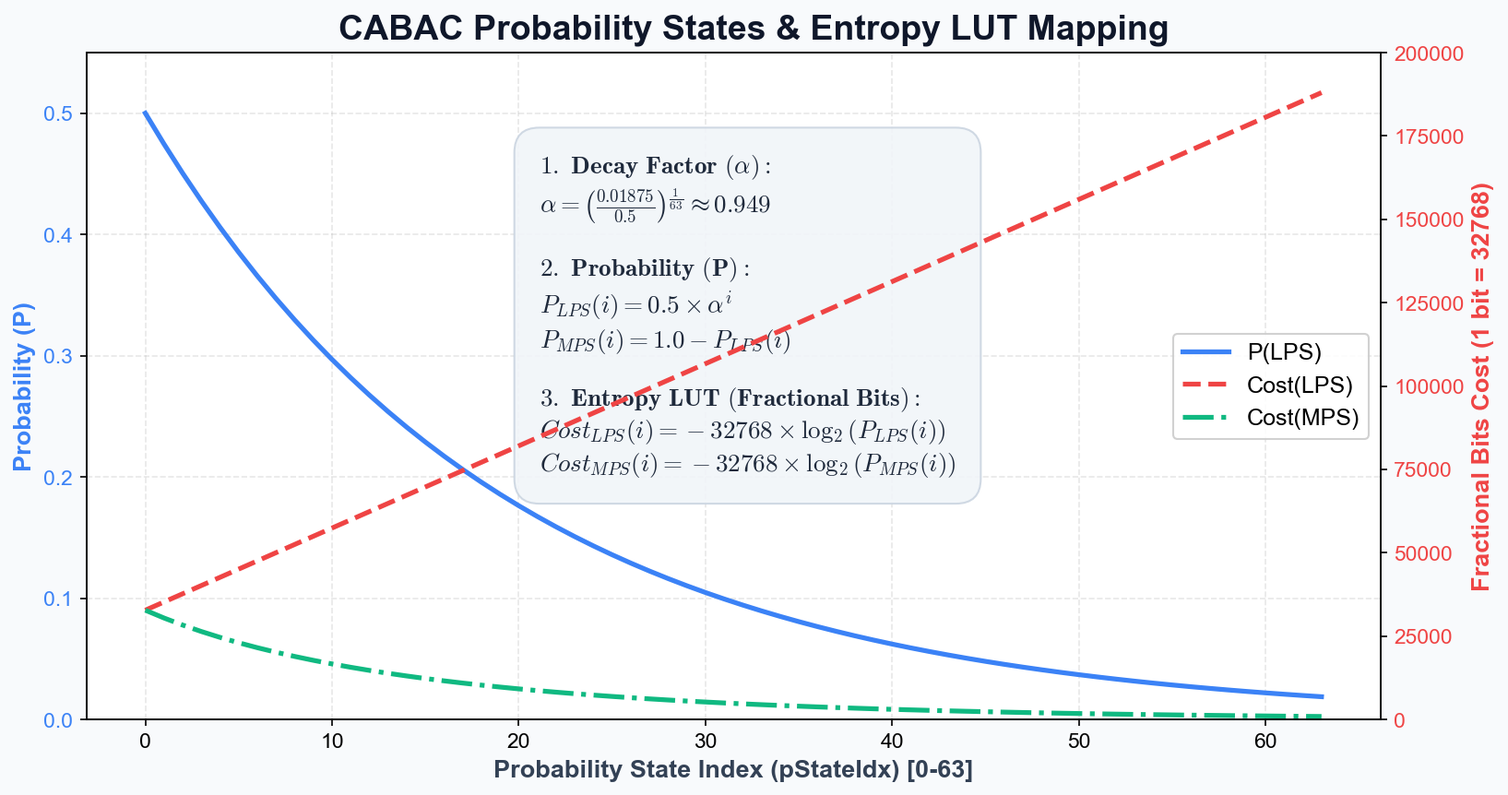
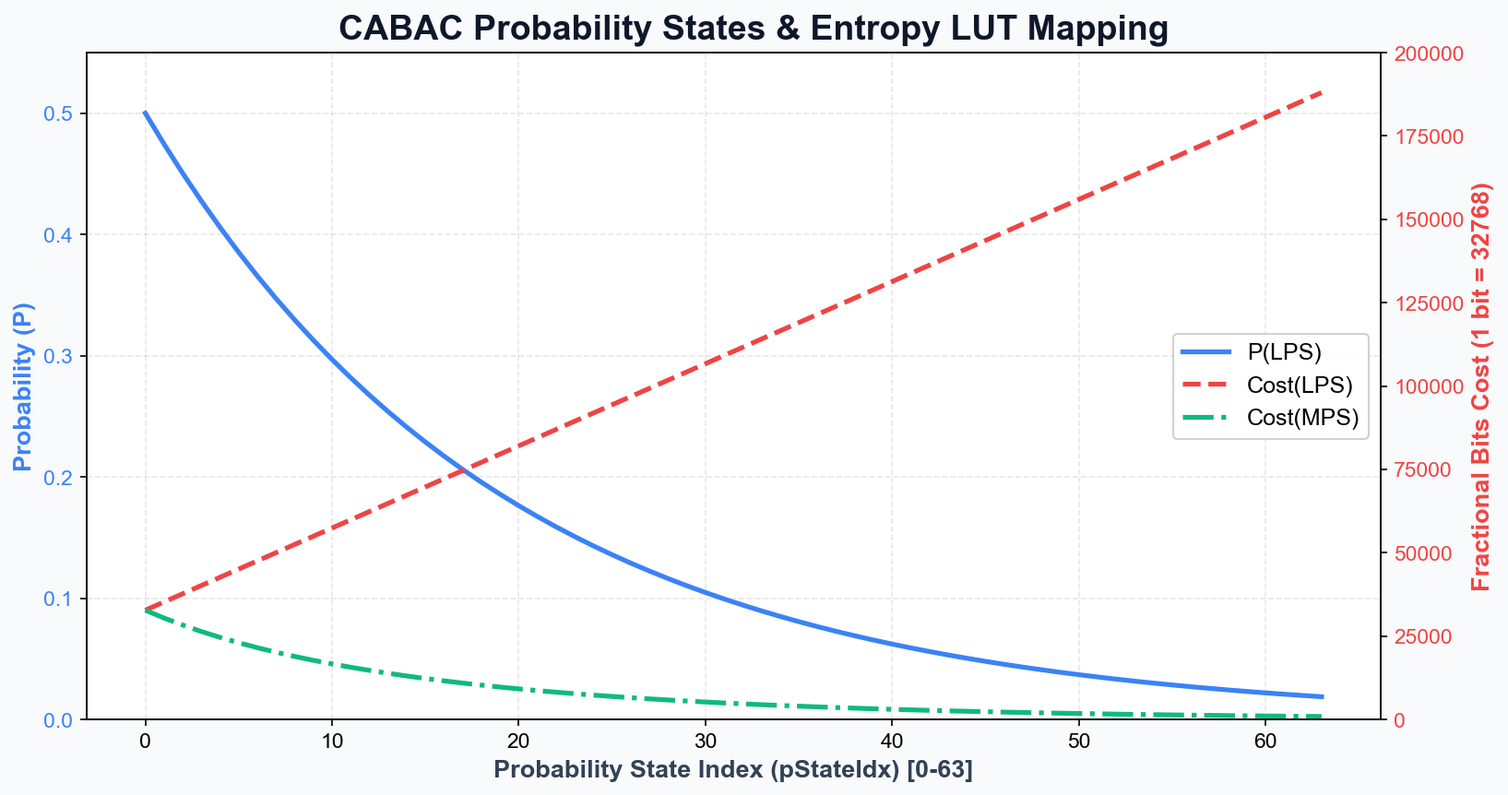
docs: restructure RDOQ dashboard Chapter 1 into 1.1/1.2/1.3 layout
Move decision example and Cost formula into 1.1, add Dcost diagram,
keep Entropy LUT formulas below chart, and update README to match.

diff --git a/html/rdoq_hardware_dashboard.html b/html/rdoq_hardware_dashboard.html
@@ -220,13 +220,13 @@ hljs.highlightAll();
       <div style="background: linear-gradient(135deg, #eff6ff, #f0fdf4); padding: 20px; border-radius: 10px; border: 1px solid #bfdbfe; margin-bottom: 25px; box-shadow: 0 2px 8px rgba(59,130,246,0.08);">
         <p style="margin: 0; color: #1e3a8a; font-size: 1.05em; line-height: 1.8;">
           <strong style="font-size: 1.15em;">总览：</strong>RDOQ (Rate-Distortion Optimized Quantization) 的本质是在标准量化 (SQ) 完成后，对每一个变换系数进行局部的 <strong>RD 代价比较</strong>：它只尝试将系数“减弱一档”或“强制清零”，然后计算 <code>Cost = Distortion + λ × Rate</code>，择优保留代价最低的量化值。<br>
-          整个算法由三个层级构成：<strong>① 系数级</strong>（逐点串行扫描、计算 CABAC 码率代价、选最优 Level）→ <strong>② CG 级</strong>（4×4 块整体抹零判决）→ <strong>③ TU 级</strong>（终极 CBF 清零判决）。本章将自顶向下地剖析这套算法从“扫描路径”到“代价计算”的完整数学逻辑。
+          整个算法由三个层级构成：<strong>① 系数级</strong>（逐点串行扫描、计算 CABAC 码率代价、选最优 Level）→ <strong>② CG 级</strong>（4×4 块整体抹零判决）→ <strong>③ TU 级</strong>（终极 CBF 清零判决）。为便于理解，本章按三大块展开：<strong>1.1 整体过程与原理</strong>（RDOQ 在做什么、扫描怎么跑、候选怎么来）、<strong>1.2 Dcost（失真代价）怎么算</strong>、<strong>1.3 Bincost（码率代价）怎么算</strong>；最后用一个综合示例把 <code>Cost = Dcost + λ × Bincost</code> 串起来。
         </p>
       </div>
       <p>在深入硬件优化前，必须厘清 RDOQ 在 C-Model 中的算法本质。RDOQ 并非盲目尝试，而是一场从宏观扫描到微观计算，再到层级截断的精密计算过程。</p>
       
+      <h3>1.1 整体过程与原理：RDOQ 在做什么、怎么跑</h3>
       <div class="algorithm-steps">
-        <h3>1.1 战场全貌与宏观扫描：能量分布与嵌套执行流程</h3>
         <p style="color: #475569; margin-bottom: 15px;">当一个 Transform Unit (TU) 经过 DCT 变换后，其能量分布具有极强的规律性：</p>
         
         <div style="text-align: center; margin: 20px 0; padding: 15px; background: #ffffff; border: 1px solid #e2e8f0; border-radius: 8px; box-shadow: 0 2px 5px rgba(0,0,0,0.02);">
@@ -420,17 +420,10 @@ hljs.highlightAll();
           <strong>嵌套执行总结：</strong><br>
           其实并不矛盾。<strong>“4x4”是管理的粒度（决定何时触发块级评估），而“单点”是执行的粒度（保证 CABAC 依赖的正确性）。</strong> 只有跑完完整的 <strong>系数级 &rarr; CG级 &rarr; TU级</strong> 三层循环后，RDOQ 流程才算真正“计算完毕”。
         </div>
-
-        <div class="mermaid-wrapper" style="margin: 25px 0; background: #fff; padding: 20px; border: 1px solid #e2e8f0; border-radius: 8px; box-shadow: 0 4px 15px rgba(0,0,0,0.03);">
-          <h4 style="margin-top: 0; text-align: center; color: #3b82f6; border-bottom: 1px dashed #bfdbfe; padding-bottom: 10px;">📊 宏观控制流：三层嵌套循环执行架构 (Nested Execution Flow)</h4>
-          <div style="text-align: center; margin-top: 15px;">
-            <img src="./rdoq_nested_loops_py.png" alt="Nested Execution Flow Chart" style="max-width: 100%; height: auto; border-radius: 6px;">
-          </div>
-        </div>
       </div>
 
       <div class="algorithm-steps">
-        <h3>1.2 微观手术：候选 LEVEL 的精准产生</h3>
+        <h4 style="margin-top: 0; color: #3b82f6; border-bottom: 1px solid #bfdbfe; padding-bottom: 6px;">整体流程的最后一环：候选 Level 的精准产生</h4>
         <p style="color: #475569; margin-bottom: 15px;">对于选定的变换系数 <i>C<sub>trans</sub></i>，RDOQ 不会遍历所有数字，而是基于普通标量量化 (SQ) 的结果进行局部试探：</p>
         <ul style="color: #334155; line-height: 1.8;">
           <li>首先执行普通量化：<b>L<sub>SQ</sub> = round(C<sub>trans</sub> / Q<sub>step</sub>)</b>。</li>
@@ -449,9 +442,116 @@ hljs.highlightAll();
         </div>
       </div>
 
+      <!-- 整体判决示例（属于 1.1 节内） -->
+      <div style="background: #fff; border: 1px solid #e2e8f0; border-radius: 12px; margin: 25px 0; overflow: hidden; box-shadow: 0 10px 25px rgba(0,0,0,0.05);">
+        <div style="background: var(--secondary); color: white; padding: 15px 20px; display: flex; justify-content: space-between; align-items: center;">
+          <div style="margin: 0; color: white; border: none; font-size: 16px; font-weight: bold;">整体判决示例：Cost = Dcost + λ×Bincost</div>
+          <span style="font-size: 14px; opacity: 0.8;">RDOQ Overview Decision Flow</span>
+        </div>
+        <div style="padding: 25px; display: flex; flex-direction: column; gap: 20px;">
+          <p style="margin-top: 0; color: #475569; line-height: 1.8;">在展开 <strong>1.2 Dcost</strong> 与 <strong>1.3 Bincost</strong> 的计算细节之前，先用一个典型场景建立整体直觉：边缘 DCT 系数 <code>C_trans = 15</code>，SQ 量化为 <code>Level = 1</code>（反量化后 <code>unQuant = 26</code>）。RDOQ 在候选 <code>{1, 0}</code> 之间分别计算 Dcost 与 Bincost，比较总代价 <code>Cost = Dcost + λ×Bincost</code> 后择优保留。</p>
+
+          <div style="background: #f8fafc; border-radius: 8px; border: 1px solid #e2e8f0; padding: 15px; display: flex; justify-content: center;">
+            <img src="./rdoq_decision_tree.png" alt="RDOQ Decision Tree Graph" style="max-width: 100%; height: auto; border-radius: 6px;">
+          </div>
+          <p class="diagram-caption" style="margin: 0;">图：RDOQ 核心决策树（C_trans = 15）—— 每个候选的 D/R 拆解与最终判决</p>
+
+          <div style="display: grid; grid-template-columns: repeat(auto-fit, minmax(280px, 1fr)); gap: 20px;">
+            <div style="background: #fff; padding: 20px; border-radius: 8px; border-top: 4px solid #3b82f6; box-shadow: 0 2px 10px rgba(0,0,0,0.02);">
+              <h4 style="margin-top: 0; color: #1e40af;">候选 A：保留 Level = 1</h4>
+              <ul style="color: #334155; line-height: 1.8; padding-left: 20px; margin-bottom: 0;">
+                <li><strong>Dcost：</strong>d = |15 − 26| = 11 → D = 11² × 1024 = <strong>123,904</strong></li>
+                <li><strong>Bincost：</strong>需编 <code>sig=1</code>, <code>gr1=0</code>, <code>sign=1</code>，约 2.5 bits → λ×R ≈ <strong>150,000</strong></li>
+                <li style="border-top: 1px dashed #cbd5e1; padding-top: 8px; margin-top: 8px;"><strong>Cost(L=1) =</strong> <strong>273,904</strong></li>
+              </ul>
+            </div>
+            <div style="background: #fff; padding: 20px; border-radius: 8px; border-top: 4px solid #f59e0b; box-shadow: 0 2px 10px rgba(0,0,0,0.02);">
+              <h4 style="margin-top: 0; color: #b45309;">候选 B：截断 Level = 0</h4>
+              <ul style="color: #334155; line-height: 1.8; padding-left: 20px; margin-bottom: 0;">
+                <li><strong>Dcost：</strong>d = |15 − 0| = 15 → D = 15² × 1024 = <strong>230,400</strong>（误差↑）</li>
+                <li><strong>Bincost：</strong>只需编 <code>sig=0</code>，约 0.2 bits → λ×R ≈ <strong>12,000</strong>（码率↓）</li>
+                <li style="border-top: 1px dashed #cbd5e1; padding-top: 8px; margin-top: 8px;"><strong>Cost(L=0) =</strong> <strong>242,400</strong></li>
+              </ul>
+            </div>
+            <div style="background: #ecfdf5; padding: 20px; border-radius: 8px; border-top: 4px solid #10b981; box-shadow: 0 2px 10px rgba(0,0,0,0.02);">
+              <h4 style="margin-top: 0; color: #047857;">贪婪判决</h4>
+              <div style="text-align: center; font-size: 1.05em; padding: 8px 0; margin-bottom: 8px;">
+                Cost(0) <strong>242,400</strong> &lt; Cost(1) <strong>273,904</strong>
+              </div>
+              <p style="color: #065f46; margin-bottom: 0; font-size: 0.95em; line-height: 1.7;"><strong>结论：</strong>D 变大但 R 骤降，总代价更低 → 选择 <strong style="color: #059669;">Level = 0</strong>。这正是 RDOQ 提升压缩率的核心机制。下面 1.2 / 1.3 分别拆解 Dcost 与 Bincost 如何算出。</p>
+            </div>
+          </div>
+        </div>
+      </div>
+
+      <div style="background: linear-gradient(135deg, #f0fdf4, #eff6ff); border: 1px solid #bbf7d0; border-radius: 10px; padding: 18px 22px; margin: 20px 0 5px 0; box-shadow: 0 2px 8px rgba(16,185,129,0.06);">
+        <p style="margin: 0; color: #14532d; font-size: 1.02em; line-height: 1.8;">
+          <strong style="font-size: 1.1em;">承上启下：</strong>上面示例已经展示了 RDOQ 的<strong>整体过程</strong>——逆向逐点扫描 → 产生候选 Level → 比较总代价择优。总代价由两项构成：
+        </p>
+        <div style="text-align: center; background: #ffffff; border: 1px dashed #86efac; border-radius: 8px; padding: 12px; margin: 12px 0 6px 0; font-size: 1.15em; color: #0f172a; overflow-x: auto;">
+          $$ \text{Cost}(L) = \underbrace{D_{cost}(L)}_{\text{失真 (1.2 节)}} \;+\; \lambda \times \underbrace{Bin_{cost}(L)}_{\text{码率 (1.3 节)}} $$
+        </div>
+        <p style="margin: 8px 0 10px 0; color: #14532d; font-size: 0.95em; line-height: 1.7;">
+          C-Model / 硬件中，上式以<strong>定点整数</strong>实现（与 1.1 决策树里的 273,904 / 242,400 同一套量纲）：
+        </p>
+        <div style="text-align: center; margin: 0 0 10px 0; padding: 15px; background: #ffffff; border: 1px solid #bbf7d0; border-radius: 8px; box-shadow: 0 2px 5px rgba(16,185,129,0.06);">
+          <img src="./rdoq_formula.png" alt="RDOQ Cost Formula" style="max-width: 100%; height: auto;">
+        </div>
+        <p style="margin: 6px 0 0 0; color: #14532d; font-size: 0.95em; line-height: 1.7;">
+          其中 <code>d² · 2<sup>scaleBits</sup></code> 即 Dcost 项，<code>⌊λ·bits / 2<sup>shift</sup>⌋</code> 即 λ×Bincost 项。下面两节分别把这两项拆开讲透：<strong>1.2</strong> 讲失真 <code>Dcost</code> 怎么算（简单、可并行），<strong>1.3</strong> 讲码率 <code>Bincost</code> 怎么算（复杂、强串行）。
+        </p>
+      </div>
+
+      <h3>1.2 Dcost（失真代价）的计算</h3>
       <div class="algorithm-steps">
-        <h3>1.3 码率度量：从 CABAC 语法元素到 BinCost</h3>
-        <p style="color: #475569; margin-bottom: 15px;">在评估某个候选 Level 时，<code>Cost = Distortion + Rate</code>。其中畸变 (D) 很容易通过差值的平方求得，但码率 (R) 则需要极其精确的估算。</p>
+        <p style="color: #475569; margin-bottom: 15px;">失真 <code>Dcost</code> 衡量的是“把系数量化成某个 Level 后，重建画面会偏离原始多少”。它的计算比码率简单得多，但有三个常被忽略的关键点。</p>
+
+        <div style="text-align: center; margin: 0 0 20px 0; padding: 15px; background: #ffffff; border: 1px solid #e2e8f0; border-radius: 8px; box-shadow: 0 2px 5px rgba(0,0,0,0.02);">
+          <img src="./rdoq_dcost.png" alt="Dcost Calculation Diagram" style="max-width: 100%; height: auto; border-radius: 6px;">
+          <p class="diagram-caption" style="margin-bottom: 0;">图：左 — 两个候选的误差 d 与 Dcost 数值；右 — Parseval 定理保证变换域 SSE 与像素域 SSE 等价</p>
+        </div>
+
+        <h4 style="margin-top: 0; color: #3b82f6; border-bottom: 1px solid #bfdbfe; padding-bottom: 6px;">关键点 ①：误差要对“反量化重建值”算，而不是对 Level 算</h4>
+        <p style="color: #334155; line-height: 1.8;">
+          解码端拿到的是量化 Level，它会先<strong>反量化 (Dequant)</strong> 还原出一个重建系数 <code>unQuant = Level × Q<sub>step</sub></code>，再做反变换。所以真正的失真，是<strong>原始变换系数</strong>与<strong>反量化重建系数</strong>之间的差，而不是拿原值和 Level 直接比：
+        </p>
+        <div style="background: #f8fafc; padding: 14px 18px; border-radius: 6px; border: 1px solid #e2e8f0; color: #0f172a; margin-bottom: 8px; overflow-x: auto;">
+          $$ D_{cost}(L) = \big(\,C_{trans} - \underbrace{L \times Q_{step}}_{\text{反量化重建值}}\,\big)^2 \times \text{scale} $$
+        </div>
+        <p style="color: #64748b; font-size: 0.9em; margin: 0 0 15px 0;">抹零的代价就是 <code>L=0</code> 的特例：<code>D(0) = C<sub>trans</sub>² × scale</code>（整段系数能量全部变成误差）。</p>
+
+        <h4 style="margin-top: 25px; color: #3b82f6; border-bottom: 1px solid #bfdbfe; padding-bottom: 6px;">关键点 ②：在“变换域”直接算，省掉每个候选的反变换</h4>
+        <p style="color: #334155; line-height: 1.8;">
+          直觉上，求重建误差应该回到像素域：反量化 → 反变换 (IDCT) → 和原像素相减。但若对每个系数的每个候选都做一次 IDCT，开销根本无法接受。<br>
+          <strong>救命的数学：帕塞瓦尔定理 (Parseval)。</strong>由于 DCT/DST 是<strong>正交变换</strong>，它保能量——<strong>变换域里的平方误差之和，恒等于像素域里的平方误差之和</strong>（只差一个固定的归一化常数）。因此 RDOQ 完全可以<strong>留在系数域</strong>逐点累加平方误差，无需反变换回像素域，结果却完全等价。
+        </p>
+        <div class="critical-alert" style="margin-top: 12px;">
+          <strong>这正是 Dcost 能“逐系数独立、即算即比”的根基：</strong>失真项没有 CABAC 那种跨系数的上下文依赖，每个系数的 D 只跟它自己的幅值与候选 Level 有关，天然可并行。<span class="highlight">真正难、真正串行的瓶颈，全在下一节的 Bincost。</span>
+        </div>
+
+        <h4 style="margin-top: 25px; color: #3b82f6; border-bottom: 1px solid #bfdbfe; padding-bottom: 6px;">关键点 ③：硬件实现式（定点放大域，避除法/浮点）</h4>
+        <p style="color: #334155; line-height: 1.8;">
+          为了规避除法和浮点，HM/硬件并不真去算 <code>Level × Q<sub>step</sub></code>，而是在量化的“放大定标域”里做：设系数放大后的精确值为 <code>levelDouble = |C<sub>trans</sub>| × Q</code>，量化成 <code>L</code> 后在同一域的重建值是 <code>L &lt;&lt; qbits</code>，于是：
+        </p>
+        <div style="background: #f8fafc; padding: 14px 18px; border-radius: 6px; border: 1px solid #e2e8f0; color: #0f172a; margin-bottom: 8px; overflow-x: auto;">
+          $$ D_{cost}(L) = \big(\text{levelDouble} - (L \ll \text{qbits})\big)^2 \times \text{errScale} $$
+        </div>
+        <p style="color: #64748b; font-size: 0.9em; margin: 0 0 5px 0;">其中 <code>errScale</code> 是初始化时按量化步长与变换归一化预算好的定点缩放因子，作用是把“定标域的平方误差”换算成真实失真量纲，从而能直接和 <code>λ × Bincost</code> 相加比较。它与上面的概念式完全等价，只是把缩放搬进了乘法、避开了反量化除法。</p>
+
+        <div class="success" style="margin-top: 18px;">
+          <strong>举个例子 (Example)：C<sub>trans</sub> = 15 的两个候选失真</strong><br>
+          沿用<strong>上文整体判决示例</strong>：边缘系数 <code>C<sub>trans</sub> = 15</code>，SQ 量化为 <code>Level = 1</code>，其反量化重建值 <code>unQuant = 26</code>，失真定标 <code>scale = 1024</code>。
+          <ul style="margin-top: 8px; margin-bottom: 8px;">
+            <li><strong>保留 Level = 1：</strong>误差 d = |15 − 26| = 11 → <code>D(1) = 11² × 1024 = 123,904</code>。</li>
+            <li><strong>强制 Level = 0：</strong>误差 d = |15 − 0| = 15 → <code>D(0) = 15² × 1024 = 230,400</code>。</li>
+          </ul>
+          <strong>注意失真的单调性：</strong>越是保留大 Level，重建越准、D 越小（<code>D(1) &lt; D(0)</code>）。所以<strong>单看失真，永远偏向“保留”</strong>；是 1.3 节的码率项 <code>λ × Bincost</code> 把天平往“减弱/抹零”方向拉——两者如何在整体判决示例中拔河，1.1 节上文已完整展示。
+        </div>
+      </div>
+
+      <h3>1.3 Bincost（码率代价）的计算：从 CABAC 语法元素到分数比特</h3>
+      <div class="algorithm-steps">
+        <p style="color: #475569; margin-bottom: 15px;">在评估某个候选 Level 时，<code>Cost = Dcost + λ × Bincost</code>。上一节已讲清 Dcost（失真）如何由系数域平方误差求得；本节专注更棘手的 <strong>Bincost（码率代价）</strong>——精确估算 CABAC 编码这个 Level 到底要花多少比特。</p>
         
         <div style="text-align: center; margin: 20px 0; padding: 15px; background: #ffffff; border: 1px solid #e2e8f0; border-radius: 8px; box-shadow: 0 2px 5px rgba(0,0,0,0.02);">
           <img src="./rdoq_cabac_pipeline.png" alt="CABAC Fractional Bits Estimation Pipeline" style="max-width: 100%; height: auto;">
@@ -672,6 +772,70 @@ static const UChar INIT_SIG_FLAG[3][NUM_SIG_FLAG_CTX] =
             
             <div style="text-align: center; margin: 15px 0; padding: 10px; background: #ffffff; border: 1px solid #e2e8f0; border-radius: 8px; box-shadow: 0 2px 5px rgba(0,0,0,0.02);">
               <img src="./rdoq_entropy_lut.png" alt="CABAC Entropy LUT Mathematical Curves" style="max-width: 100%; height: auto; border-radius: 6px;">
+              <p class="diagram-caption" style="margin-bottom: 0;">图：P(LPS) 与 Cost(MPS/LPS) 随 pStateIdx 的变化曲线（算式见下方建表三步）</p>
+            </div>
+
+            <div style="background: #eef2ff; border: 2px solid #6366f1; padding: 20px; border-radius: 8px; margin: 20px 0; box-shadow: 0 2px 8px rgba(99, 102, 241, 0.08);">
+              <h4 style="margin-top: 0; color: #4338ca; margin-bottom: 15px; font-size: 1.1em; border-bottom: 2px dashed #c7d2fe; padding-bottom: 8px;">
+                <span style="font-size: 1.2em;">&#127959;&#65039;</span> 这张 128 项的 Entropy_LUT 到底是怎么“算”出来的？（建表三步）
+              </h4>
+              <p style="color: #312e81; line-height: 1.7; margin-bottom: 8px;">
+                下图仅展示概率状态与代价曲线的<strong>形态关系</strong>（不含算式）。128 项 Entropy_LUT 的具体计算公式与建表步骤见下方文字。
+              </p>
+              <p style="color: #312e81; line-height: 1.7; margin-bottom: 15px;">
+                这张表并非写死的魔数，而是编码器初始化时，用<strong>香农信息量公式</strong>对 64 个概率状态逐一离线计算、再定点放大后固化进 ROM 的。建表只需三步：
+              </p>
+
+              <p style="margin: 15px 0 8px 0; font-weight: bold; color: #3730a3;">第 1 步：把概率状态 (pStateIdx) 映射成 LPS 概率</p>
+              <p style="color: #312e81; line-height: 1.7; margin: 0 0 10px 0;">
+                CABAC 把 LPS 出现概率离散成 64 档 (pStateIdx = 0~63)。状态越大越“笃定”(LPS 越罕见)，相邻档之间按固定比例 &alpha; 等比衰减：
+              </p>
+              <div style="background: #f8fafc; padding: 12px 16px; border-radius: 6px; border: 1px solid #e2e8f0; color: #0f172a; margin-bottom: 8px; overflow-x: auto;">
+                $$ p_{LPS}(s) = 0.5 \times \alpha^{s}, \quad \alpha = \left(\frac{0.01875}{0.5}\right)^{1/63} \approx 0.9492 $$
+              </div>
+              <p style="color: #64748b; font-size: 0.9em; margin: 0 0 15px 0;">于是 s=0 时 p<sub>LPS</sub>=0.5（最不确定，编谁都要 1 bit）；s=63 时 p<sub>LPS</sub>&approx;0.01875（最笃定，编 MPS 几乎不花钱）。</p>
+
+              <p style="margin: 15px 0 8px 0; font-weight: bold; color: #3730a3;">第 2 步：把概率换成比特数（香农信息量）并定点放大</p>
+              <p style="color: #312e81; line-height: 1.7; margin: 0 0 10px 0;">
+                对每一档状态，分别预算“编 MPS”和“编 LPS”两种事件的理论比特数，再 &times;32768（1 bit = 32768）取整，存为一对相邻表项：
+              </p>
+              <div style="background: #f8fafc; padding: 12px 16px; border-radius: 6px; border: 1px solid #e2e8f0; color: #0f172a; margin-bottom: 8px; line-height: 2.4; overflow-x: auto;">
+                $$ \text{LUT}[2s] = \text{round}\big(-\log_2(1 - p_{LPS}(s)) \times 32768\big) \quad \color{#64748b}{\text{(编 MPS 的代价，偶地址)}} $$
+                $$ \text{LUT}[2s+1] = \text{round}\big(-\log_2(p_{LPS}(s)) \times 32768\big) \quad \color{#64748b}{\text{(编 LPS 的代价，奇地址)}} $$
+              </div>
+              <p style="color: #64748b; font-size: 0.9em; margin: 0 0 15px 0;">64 档 &times; 2 = 128 项。注意地址最低位恰好就是“这次编的是不是 LPS”，与查表时的 <code>(flag_val ^ valMPS)</code> 完美对齐——这绝非巧合，而是为硬件寻址刻意设计的。</p>
+
+              <p style="margin: 15px 0 8px 0; font-weight: bold; color: #3730a3;">第 3 步：固化进 ROM，运行期只查不算</p>
+              <p style="color: #312e81; line-height: 1.7; margin: 0 0 15px 0;">
+                整张 128 项表在 Slice/编码器启动时只算一次，之后运行期就是一块纯组合逻辑的 ROM，单周期查出，彻底规避了昂贵的 <code>log2</code> 与浮点运算。
+              </p>
+
+              <p style="margin: 15px 0 8px 0; font-weight: bold; color: #3730a3;">建表结果速览（抽样几档）</p>
+              <table style="width: 100%; border-collapse: collapse; font-size: 0.9em; background: #ffffff; border-radius: 6px; overflow: hidden; border: 1px solid #e2e8f0;">
+                <thead>
+                  <tr style="background: #4338ca; color: white;">
+                    <th style="padding: 8px 10px; text-align: left;">pStateIdx s</th>
+                    <th style="padding: 8px 10px; text-align: left;">p<sub>LPS</sub>(s)</th>
+                    <th style="padding: 8px 10px; text-align: left;">编 MPS：LUT[2s]</th>
+                    <th style="padding: 8px 10px; text-align: left;">编 LPS：LUT[2s+1]</th>
+                  </tr>
+                </thead>
+                <tbody>
+                  <tr style="border-bottom: 1px solid #e5e7eb;">
+                    <td style="padding: 6px 10px;">0</td><td style="padding: 6px 10px;">0.500</td><td style="padding: 6px 10px;">1.000 b &rarr; 32768</td><td style="padding: 6px 10px;">1.000 b &rarr; 32768</td>
+                  </tr>
+                  <tr style="border-bottom: 1px solid #e5e7eb; background: #eef2ff;">
+                    <td style="padding: 6px 10px;"><strong>7</strong></td><td style="padding: 6px 10px;"><strong>0.347</strong></td><td style="padding: 6px 10px;"><strong>0.615 b &rarr; 20160</strong></td><td style="padding: 6px 10px;"><strong>1.526 b &rarr; 50010</strong></td>
+                  </tr>
+                  <tr style="border-bottom: 1px solid #e5e7eb;">
+                    <td style="padding: 6px 10px;">31</td><td style="padding: 6px 10px;">0.099</td><td style="padding: 6px 10px;">0.151 b &rarr; 4949</td><td style="padding: 6px 10px;">3.331 b &rarr; 109140</td>
+                  </tr>
+                  <tr>
+                    <td style="padding: 6px 10px;">62</td><td style="padding: 6px 10px;">0.0197</td><td style="padding: 6px 10px;">0.029 b &rarr; 943</td><td style="padding: 6px 10px;">5.663 b &rarr; 185580</td>
+                  </tr>
+                </tbody>
+              </table>
+              <p style="color: #64748b; font-size: 0.85em; margin: 10px 0 0 0;">&#128161; 表中高亮的 <strong>s=7</strong> 一行，正是后文实战推演要用到的状态 (m_ucState=15 &rarr; pStateIdx=7)。可见 MPS 侧代价随状态升高而骤降，LPS 侧则越来越贵；少数极罕见的 LPS 项会超过 16-bit，工程上用更宽的整数或上限钳位来存。</p>
             </div>
 
             <div style="background: #f0f9ff; border: 2px solid #0284c7; padding: 20px; border-radius: 8px; margin: 20px 0; box-shadow: 0 2px 8px rgba(2, 132, 199, 0.08);">
@@ -701,7 +865,7 @@ static const UChar INIT_SIG_FLAG[3][NUM_SIG_FLAG_CTX] =
                 <div style="display: flex; align-items: flex-start; gap: 12px;">
                   <span style="background: #0284c7; color: white; font-weight: bold; padding: 4px 10px; border-radius: 50%; font-size: 0.95em; flex-shrink: 0;">3</span>
                   <div style="color: #0c4a6e; line-height: 1.6;">
-                    <strong>一次查表得到 Fractional Bits：</strong>将拼接后的地址送入预计算好的 Entropy_LUT（128 行，每行存储一个 16-bit 定点整数），直接读出对应的分数比特代价。<br>
+                    <strong>一次查表得到 Fractional Bits：</strong>将拼接后的地址送入预计算好的 Entropy_LUT（128 行，每行存储一个定点整数：1 bit = 32768），直接读出对应的分数比特代价。<br>
                     <strong style="color: #0369a1;">硬件实现上，这就是一个纯组合逻辑的 ROM 查表，单周期即可完成，无任何迭代或反馈。</strong>
                   </div>
                 </div>
@@ -716,7 +880,7 @@ static const UChar INIT_SIG_FLAG[3][NUM_SIG_FLAG_CTX] =
                   1) pStateIdx = 15 >> 1 = <strong>7</strong>，valMPS = 15 & 1 = <strong>1</strong><br>
                   2) flag_val = 1，flag_val ^ valMPS = 1 ^ 1 = <strong>0</strong>（说明编码的是 MPS 事件，代价低）<br>
                   3) 查表地址 = (7 &lt;&lt; 1) | 0 = <strong>14</strong><br>
-                  4) bit_cost = Entropy_LUT[14]，读出一个较小的定点整数（如 5396，约 0.16 bits）→ 代价很低！
+                  4) bit_cost = Entropy_LUT[14]，读出对应的定点整数 ≈ 20160（即 20160 / 32768 ≈ 0.615 bits）→ 编码这个高概率 (MPS) 事件，代价不到 1 bit！
                 </span>
               </div>
             </div>
@@ -726,74 +890,64 @@ static const UChar INIT_SIG_FLAG[3][NUM_SIG_FLAG_CTX] =
           </p>
         </div>
         
-        <div class="success" style="margin-top: 15px; margin-bottom: 20px;">
-          <strong>举个例子 (Example)：评估 Level = 3 的码率消耗</strong><br>
-          假设当前评估的量化候选值是 <code>Level = 3</code>，那么在查表累加的过程中，它会经历如下关卡：
-          <ul style="margin-top: 8px; margin-bottom: 0;">
-            <li><code>sig_coeff_flag = 1</code>：根据该系数的 Context，查表得到分数比特 (例如 39321，约 1.2 bits)。</li>
-            <li><code>greater1_flag = 1</code>：因为 3 > 1，查表得到对应分数比特 (例如 26214，约 0.8 bits)。</li>
-            <li><code>greater2_flag = 1</code>：因为 3 > 2，查表得到对应分数比特 (例如 29491，约 0.9 bits)。</li>
-            <li><code>sign_flag = 1 (或0)</code>：符号位走 Bypass 模式（等概率0.5），固定消耗 1 真实比特（即硬编码的 32768 分数比特）。</li>
-            <li><code>level_rem = 0</code>：剩余绝对值 <code>3 - 3 = 0</code>，使用 Golomb-Rice 编码，消耗若干比特。</li>
-          </ul>
-          所有这些细碎的 Fractional Bits 累加起来，就构成了评估 <code>Level = 3</code> 时庞大的 <code>cabac_bits</code>！
-        </div>
-        
-        <p style="color: #475569; margin-bottom: 15px;">最终，这些比特将通过拉格朗日乘子 <b>&lambda;</b> 映射为整型 <code>bincost</code>，带入到微观代价值比较公式中：</p>
-        <div style="text-align: center; margin: 20px 0; padding: 15px; background: #ffffff; border: 1px solid #e2e8f0; border-radius: 8px; box-shadow: 0 2px 5px rgba(0,0,0,0.02);">
-          <img src="./rdoq_formula.png" alt="RDOQ Cost Formula" style="max-width: 100%; height: auto;">
-        </div>
-      </div>
+        <div style="background: linear-gradient(135deg, #eef2ff, #ecfeff); border: 2px solid #6366f1; border-radius: 12px; margin: 25px 0; overflow: hidden; box-shadow: 0 10px 25px rgba(99,102,241,0.08);">
+          <div style="background: #4338ca; color: white; padding: 14px 20px; font-size: 16px; font-weight: bold;">
+            🎯 完整实战推演：一个 sig_coeff_flag 从「坐标」到「bit 数」的四步全链路
+          </div>
+          <div style="padding: 22px 25px;">
+            <p style="margin-top: 0; color: #334155; line-height: 1.7;">
+              <strong>设定场景：</strong>一个 <code>8&times;8 Luma TU</code>（I-Slice，<code>QP=37</code>，对角扫描 DiagScan），逆向扫描到坐标 <strong><code>(posX=5, posY=6)</code></strong>。当前候选 Level &ge; 1（即该系数非零，要编 <code>sig_coeff_flag = 1</code>），且周边模板尚无非零系数 <code>patternSigCtx=0</code>。我们一路算到底，看这 1 个 flag 到底花多少 bit。
+            </p>
 
-      <!-- 互动示例组件开始 -->
-      <div style="background: #fff; border: 1px solid #e2e8f0; border-radius: 12px; margin: 30px 0; overflow: hidden; box-shadow: 0 10px 25px rgba(0,0,0,0.05);">
-        <div style="background: var(--secondary); color: white; padding: 15px 20px; display: flex; justify-content: space-between; align-items: center;">
-          <div style="margin: 0; color: white; border: none; font-size: 16px; font-weight: bold;">图解示例：微观系数的量化判决</div>
-          <span style="font-size: 14px; opacity: 0.8;">Static RDOQ Decision Sandbox</span>
-        </div>
-        <div style="padding: 25px; display: flex; flex-direction: column; gap: 20px;">
-          <p style="margin-top: 0; color: #475569;"><strong>前情提要：</strong>假设有一个边缘 DCT 系数 <code>C_trans = 15</code>。按照普通的标量量化 (SQ)，它会被量化为 <code>Level = 1</code> (反量化后 <code>unQuant = 26</code>)。让我们通过下面的决策树与详细的代价值拆解，看看 RDOQ 引擎是如何评估它的：</p>
-          
-          <div style="display: flex; flex-direction: column; gap: 25px; align-items: stretch;">
-            <!-- 顶部图表区域 -->
-            <div style="background: #f8fafc; border-radius: 8px; border: 1px solid #e2e8f0; padding: 15px; display: flex; justify-content: center;">
-              <img src="./rdoq_decision_tree.png" alt="RDOQ Decision Tree Graph" style="max-width: 100%; height: auto; border-radius: 6px;">
-            </div>
-
-            <!-- 底部 1x3 文字区域 -->
-            <div style="display: grid; grid-template-columns: repeat(auto-fit, minmax(280px, 1fr)); gap: 20px;">
-              <div style="background: #fff; padding: 20px; border-radius: 8px; border-top: 4px solid #3b82f6; box-shadow: 0 2px 10px rgba(0,0,0,0.02);">
-                <h4 style="margin-top: 0; color: #1e40af;">Step 1: 评估正常量化 (Level = 1)</h4>
-                <ul style="color: #334155; line-height: 1.8; padding-left: 20px;">
-                  <li><strong>畸变 (D):</strong> 差值 d = |15 - 26| = 11。<br> D = 11&sup2; &times; 1024 = <strong>123,904</strong></li>
-                  <li><strong>码率 (R):</strong> CABAC 需要编码 <code>sig=1</code>, <code>gr1=0</code>, <code>sign=1</code>，耗约 2.5 bits。<br> R &approx; 2.5 &times; <b>&lambda;</b> = <strong>150,000</strong></li>
-                  <li style="border-top: 1px dashed #cbd5e1; padding-top: 8px; margin-top: 8px;"><strong>总代价 (Cost):</strong><br>123,904 + 150,000 = <strong>273,904</strong></li>
-                </ul>
-              </div>
-
-              <div style="background: #fff; padding: 20px; border-radius: 8px; border-top: 4px solid #f59e0b; box-shadow: 0 2px 10px rgba(0,0,0,0.02);">
-                <h4 style="margin-top: 0; color: #b45309;">Step 2: 评估强制量化为零 (Level = 0)</h4>
-                <ul style="color: #334155; line-height: 1.8; padding-left: 20px;">
-                  <li><strong>畸变 (D):</strong> 差值 d = |15 - 0| = 15。<br> D = 15&sup2; &times; 1024 = <strong>230,400</strong></li>
-                  <li><strong>码率 (R):</strong> CABAC 只需要编码 <code>sig=0</code>，耗约 0.2 bits。<br> R &approx; 0.2 &times; <b>&lambda;</b> = <strong>12,000</strong></li>
-                  <li style="border-top: 1px dashed #cbd5e1; padding-top: 8px; margin-top: 8px;"><strong>总代价 (Cost):</strong><br>230,400 + 12,000 = <strong>242,400</strong></li>
-                </ul>
-              </div>
-
-              <div style="background: #ecfdf5; padding: 20px; border-radius: 8px; border-top: 4px solid #10b981; box-shadow: 0 2px 10px rgba(0,0,0,0.02);">
-                <h4 style="margin-top: 0; color: #047857;">Step 3: 贪婪判决 (Greedy Decision)</h4>
-                <div style="text-align: center; font-size: 1.1em; padding: 10px; margin-bottom: 10px;">
-                  Cost(0) <strong>242,400</strong> &lt; Cost(1) <strong>273,904</strong>
-                </div>
-                <p style="color: #065f46; margin-bottom: 0; font-size: 0.95em;"><strong>结论：</strong>虽然强制量化为 0 会导致像素误差 (D) 变大，但节约的编码比特 (R) 非常显著。RDOQ 引擎基于贪婪策略选择 <strong style="color: #059669;">Level = 0</strong>，成功将该系数截断为 0。这也是 RDOQ 提升压缩率的核心机制。</p>
+            <div style="background: #ffffff; border-left: 4px solid #3b82f6; border-radius: 6px; padding: 14px 18px; margin: 14px 0; box-shadow: 0 2px 6px rgba(0,0,0,0.03);">
+              <strong style="color: #1e40af;">① 语法元素 &rarr; ctxInc（地址是怎么映射出来的）</strong>
+              <div style="font-family: monospace; font-size: 0.9em; color: #1e293b; margin-top: 8px; background: #f8fafc; padding: 10px; border-radius: 4px; line-height: 1.9;">
+                先定语法元素：系数非零 &rarr; 编 <strong>sig_coeff_flag</strong>，其值 = 1。<br>
+                BaseOffset&nbsp;&nbsp;&nbsp;= <strong>21</strong>　(Luma 且 Size &ge; 8&times;8)<br>
+                LumaCGOffset = <strong>3</strong>　(5&gt;&gt;2=1, 6&gt;&gt;2=1，和=2&gt;0，已跳出 DC 角的 CG)<br>
+                cnt&nbsp;&nbsp;&nbsp;&nbsp;&nbsp;&nbsp;&nbsp;&nbsp;&nbsp;= <strong>0</strong>　(patternSigCtx=0 且 (5&amp;3)+(6&amp;3)=1+2=3&gt;2，走 false 分支)<br>
+                <strong style="color: #1d4ed8;">&rArr; ctxInc = 21 + 3 + 0 = 24</strong>
               </div>
             </div>
+
+            <div style="background: #ffffff; border-left: 4px solid #8b5cf6; border-radius: 6px; padding: 14px 18px; margin: 14px 0; box-shadow: 0 2px 6px rgba(0,0,0,0.03);">
+              <strong style="color: #6d28d9;">② Context_Array &rarr; m_ucState（这格上下文是怎么初始化算出来的）</strong>
+              <div style="font-family: monospace; font-size: 0.9em; color: #1e293b; margin-top: 8px; background: #f8fafc; padding: 10px; border-radius: 4px; line-height: 1.9;">
+                用 ctxInc=24 作下标，从规范初值表取出该上下文的 initValue（设 = <strong>184</strong>），代入 QP=37：<br>
+                slope&nbsp;&nbsp;&nbsp;&nbsp;&nbsp;= (184&gt;&gt;4)&times;5 &minus; 45 = 11&times;5 &minus; 45 = <strong>10</strong><br>
+                offset&nbsp;&nbsp;&nbsp;&nbsp;= ((184&amp;15)&lt;&lt;3) &minus; 16 = (8&lt;&lt;3) &minus; 16 = 64 &minus; 16 = <strong>48</strong><br>
+                initState = Clip3(1,126, (10&times;37)&gt;&gt;4 + 48) = Clip3(1,126, 23+48) = <strong>71</strong><br>
+                71 &ge; 64 &rArr; valMPS = <strong>1</strong>，pStateIdx = 71&minus;64 = <strong>7</strong><br>
+                <strong style="color: #6d28d9;">&rArr; m_ucState = (7&lt;&lt;1) | 1 = 15</strong>　(RDOQ 阶段冻结上下文，直接读出这个 15)
+              </div>
+            </div>
+
+            <div style="background: #ffffff; border-left: 4px solid #6366f1; border-radius: 6px; padding: 14px 18px; margin: 14px 0; box-shadow: 0 2px 6px rgba(0,0,0,0.03);">
+              <strong style="color: #4338ca;">③ 建 Entropy_LUT 并定位（拿 m_ucState 去查哪一格）</strong>
+              <div style="font-family: monospace; font-size: 0.9em; color: #1e293b; margin-top: 8px; background: #f8fafc; padding: 10px; border-radius: 4px; line-height: 1.9;">
+                由 m_ucState=15 拆出 pStateIdx = 15&gt;&gt;1 = <strong>7</strong>。<br>
+                建表时该档概率：p<sub>LPS</sub>(7) = 0.5 &times; 0.9492<sup>7</sup> &approx; <strong>0.347</strong>，p<sub>MPS</sub> &approx; 0.653。<br>
+                LUT[2&times;7]&nbsp;&nbsp;&nbsp;= LUT[14] = round(&minus;log&#8322;(0.653)&times;32768) &approx; <strong>20160</strong>　(编 MPS)<br>
+                LUT[2&times;7+1] = LUT[15] = round(&minus;log&#8322;(0.347)&times;32768) &approx; <strong>50010</strong>　(编 LPS)
+              </div>
+            </div>
+
+            <div style="background: #ecfdf5; border-left: 4px solid #10b981; border-radius: 6px; padding: 14px 18px; margin: 14px 0; box-shadow: 0 2px 6px rgba(0,0,0,0.03);">
+              <strong style="color: #047857;">④ 查出最终 bit 数（到底花多少）</strong>
+              <div style="font-family: monospace; font-size: 0.9em; color: #064e3b; margin-top: 8px; background: rgba(255,255,255,0.7); padding: 10px; border-radius: 4px; line-height: 1.9;">
+                要编 sig_coeff_flag = 1，valMPS = 1 &rArr; isLPS = flag_val ^ valMPS = 1 ^ 1 = <strong>0</strong>（编的是高概率 MPS）。<br>
+                查表地址 = (pStateIdx&lt;&lt;1) | isLPS = (7&lt;&lt;1) | 0 = <strong>14</strong>。<br>
+                bit_cost = Entropy_LUT[14] &approx; <strong>20160</strong> 定点 = 20160 / 32768 &approx; <strong>0.615 bits</strong>。<br>
+                <strong style="display: block; margin-top: 6px; color: #047857; background: #d1fae5; padding: 5px 8px; border-radius: 4px; border-left: 3px solid #10b981;">最终结论：编码这一个 sig_coeff_flag=1，代价 &approx; 0.615 真实比特（定点值 &approx; 20160）。</strong>
+              </div>
+            </div>
+
+            <p style="margin: 12px 0 0 0; color: #475569; font-size: 0.9em; line-height: 1.6;">
+              这就是<strong>单个</strong>语法元素的完整代价。而一个候选 Level 的总 <code>cabac_bits</code>，正是把它名下所有 flag（sig、gr1、gr2、sign、level_rem）各自走一遍这四步、再把各自的定点比特累加起来得到的。
+            </p>
           </div>
         </div>
       </div>
-      <!-- 互动示例组件结束 -->
-
-
 
       <h2>第二章 硬件级 RDOQ 优化策略 (Hardware Optimization)</h2>
       <div style="background: linear-gradient(135deg, #fef3c7, #fce7f3); padding: 20px; border-radius: 10px; border: 1px solid #fbbf24; margin-bottom: 25px; box-shadow: 0 2px 8px rgba(245,158,11,0.08);">

diff --git a/README.md b/README.md
@@ -31,7 +31,13 @@ You can directly access the interactive online documentation via the following l
 
 ### 🧮 4. [RDOQ Hardware Optimization Pipeline](https://edgerzou-stack.github.io/rdo-architecture/html/rdoq_hardware_dashboard.html)
 - **Target Audience:** RTL Designers, RDOQ Algorithm Engineers.
-- **Content:** The detailed hardware pipeline decoupling strategy for RDOQ, featuring pure 16-unit parallel calculation and completely unrolled dependency graphs.
+- **Content:** RDOQ algorithm principles and hardware optimization strategies in a two-chapter interactive dashboard.
+- **Chapter 1 — Algorithm (three-part layout):**
+  - **1.1** Overall process (nested scan, data hazard, candidate levels, **decision-tree example**, fixed-point Cost formula)
+  - **1.2** **Dcost** — transform-domain SSE, dequant error, Parseval equivalence
+  - **1.3** **Bincost** — CABAC 4-step chain, ctxInc, Context_Array, Entropy_LUT build & lookup (worked example)
+- **Chapter 2 — Hardware Optimization:** Pruning, Fast/Slow loop, static context, Two-Stage, Luma-Chroma bypass, 4×4 parallel decoupling
+- **Assets:** `rdoq_decision_tree.png`, `rdoq_dcost.png`, `rdoq_entropy_lut.png`, `rdoq_formula.png`, and supporting diagrams under `html/`
 
 
 
